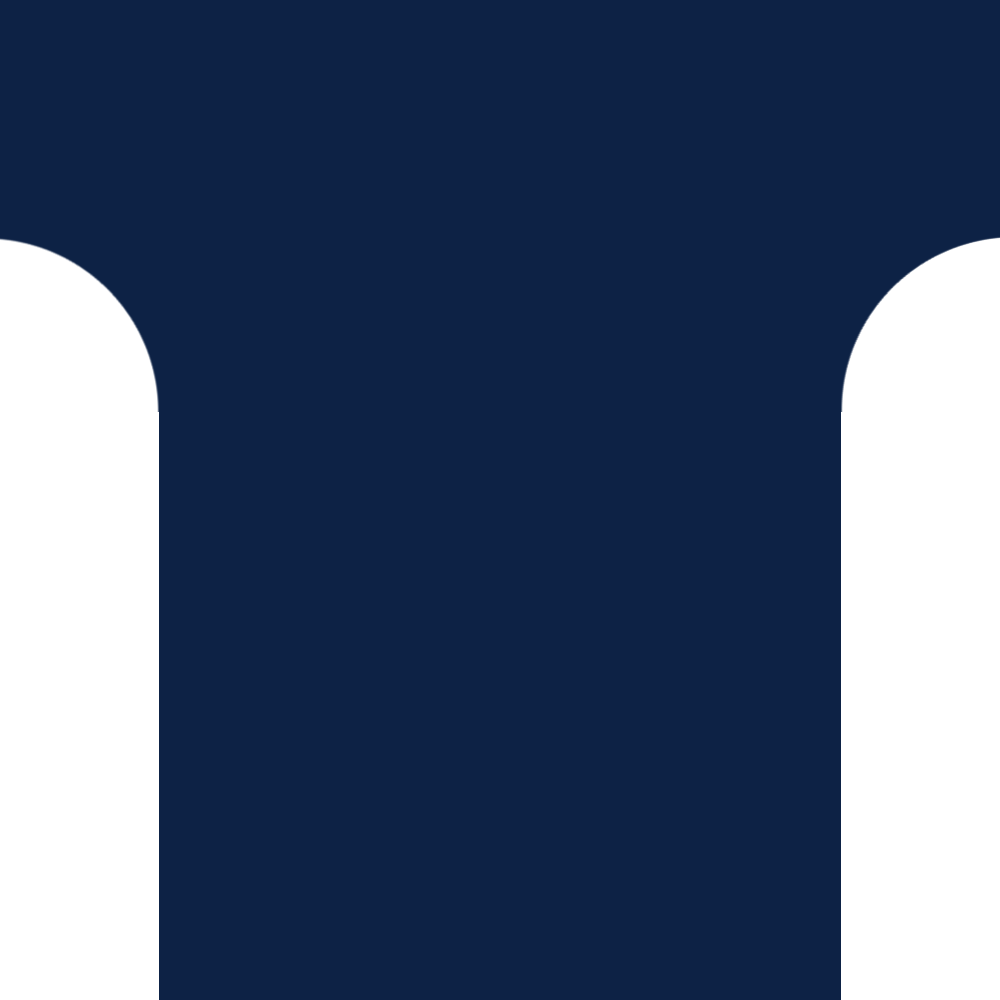
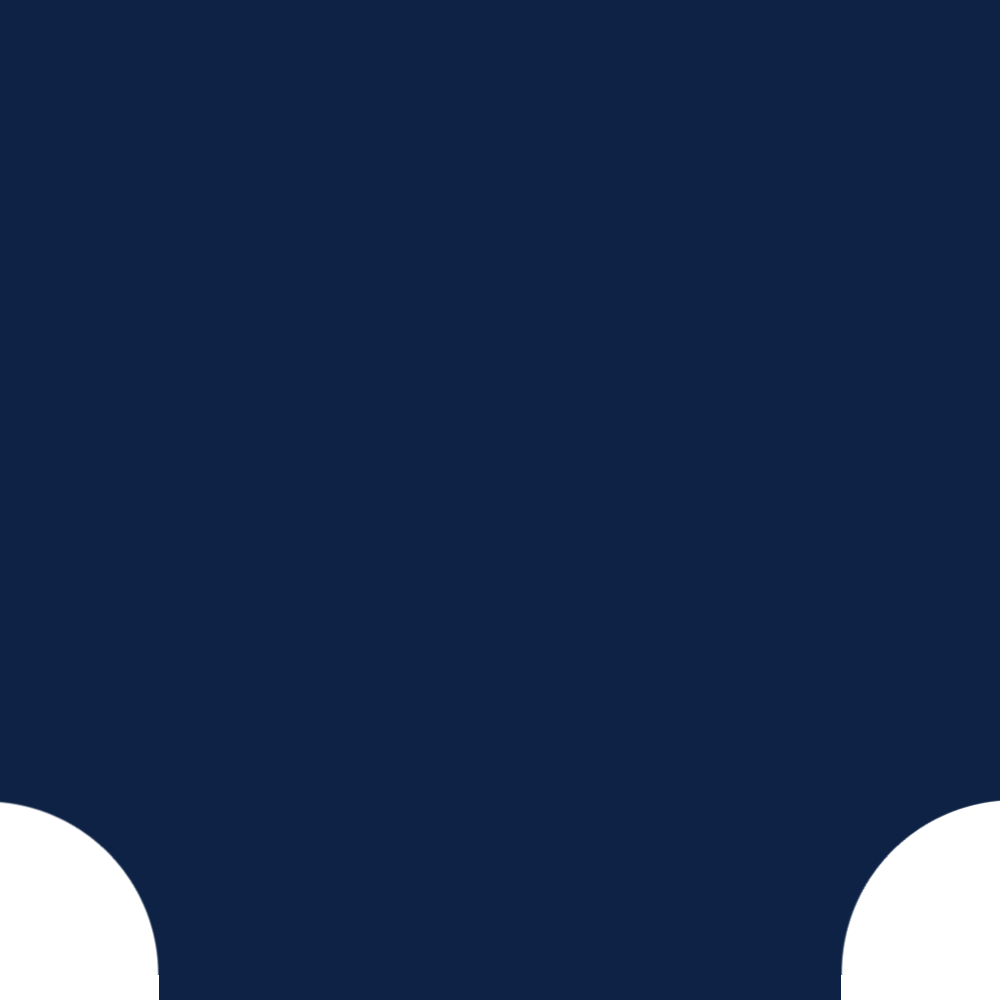
Modified shape images for a smoother background image transition

Changed region(s): [[0.837, 0.217, 1.0, 0.961], [0.0, 0.217, 0.186, 0.961]]

diff --git a/pages/index/index.css b/pages/index/index.css
@@ -127,11 +127,13 @@ body
 
 .center_in
 {
+	background-position: bottom;
 	background-image: url("../../images/BackgroundCTransition.png");
 }
 
 .center_out
 {
+	background-position: bottom;
 	background-image: url("../../images/BackgroundCTransition.png");
 	transform: rotate(180deg);
 }
